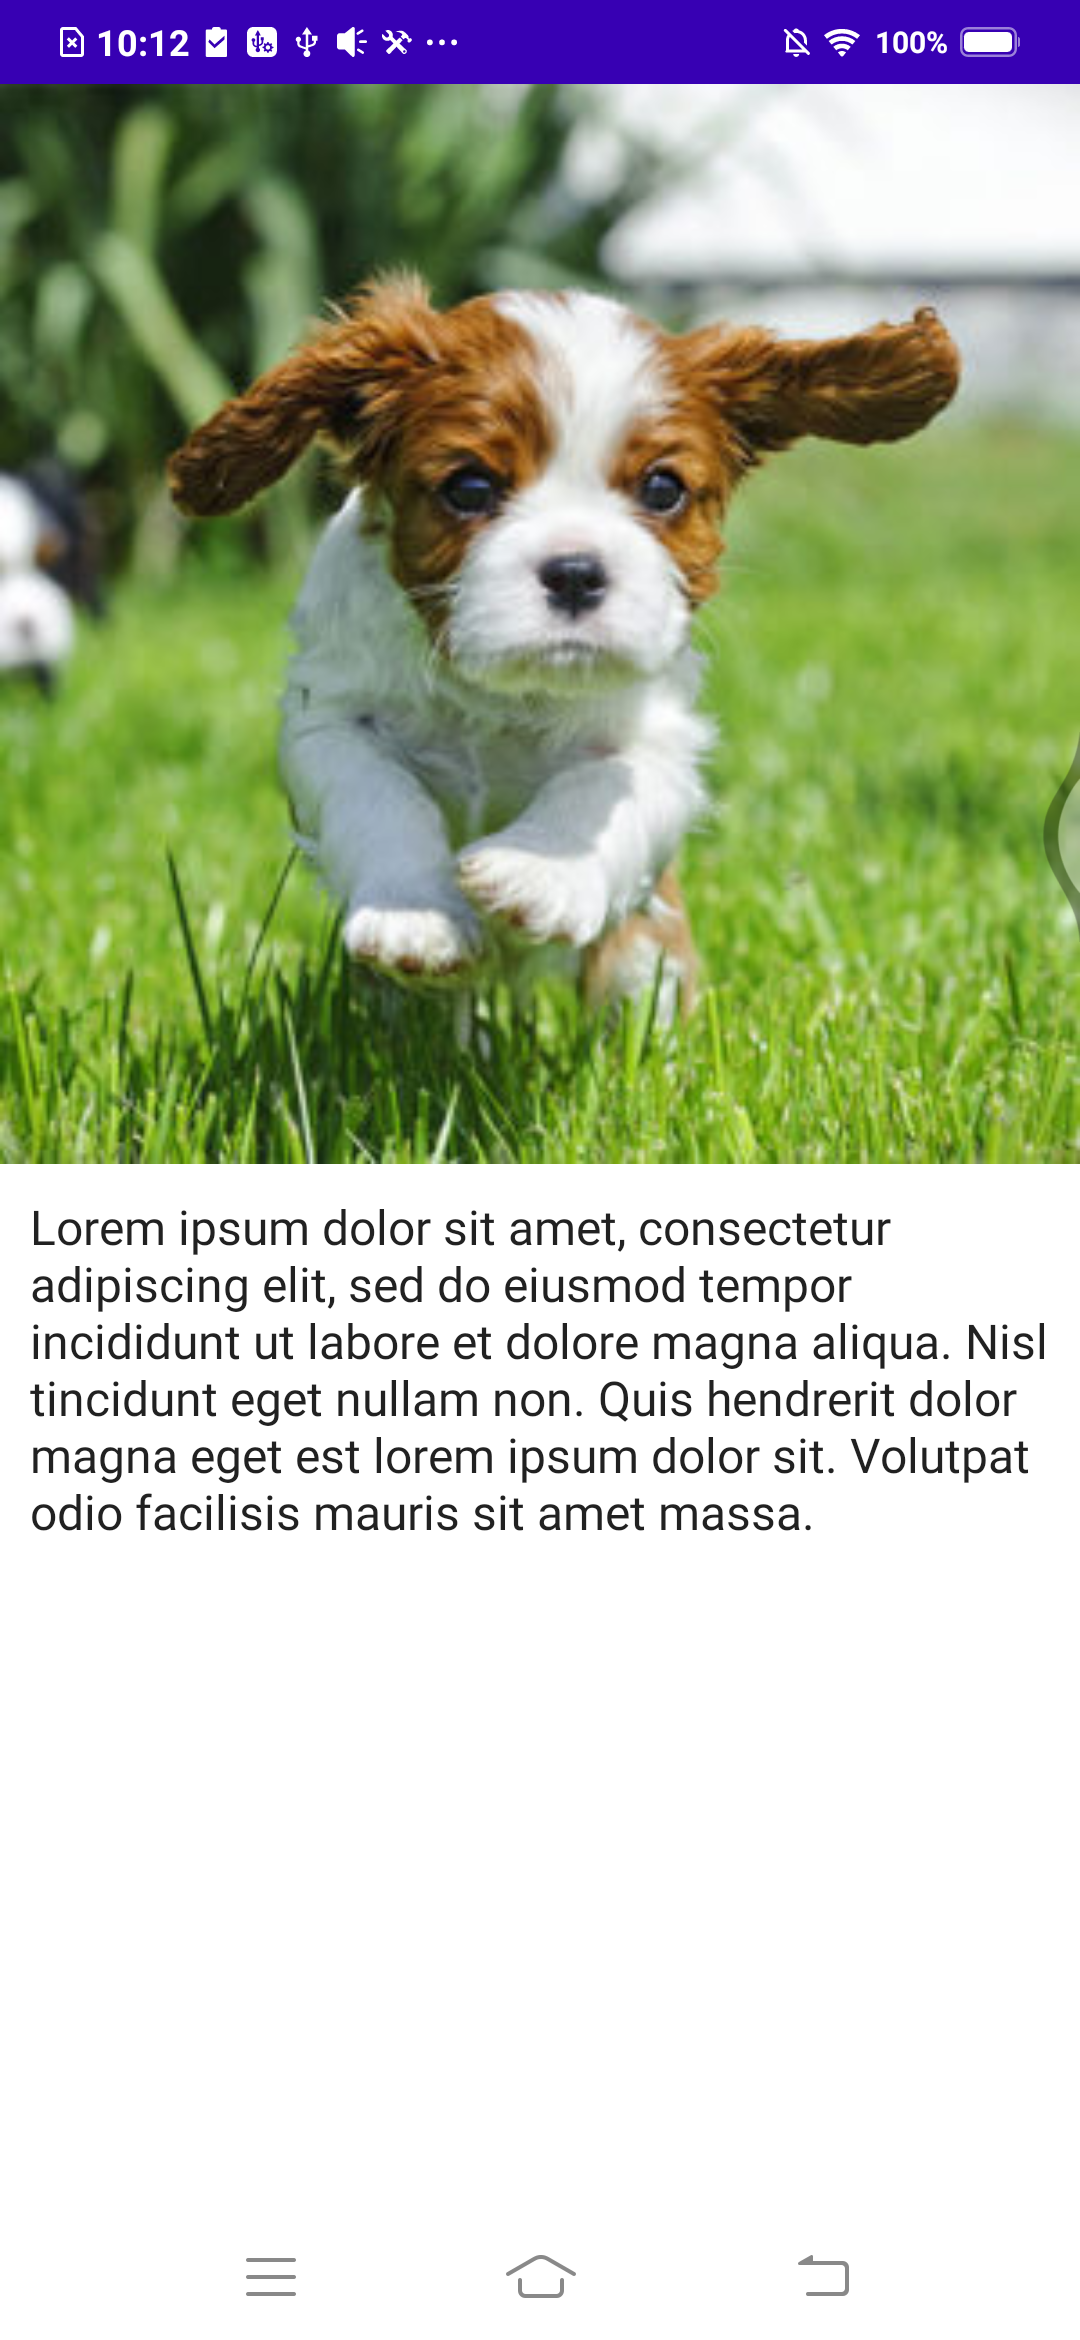
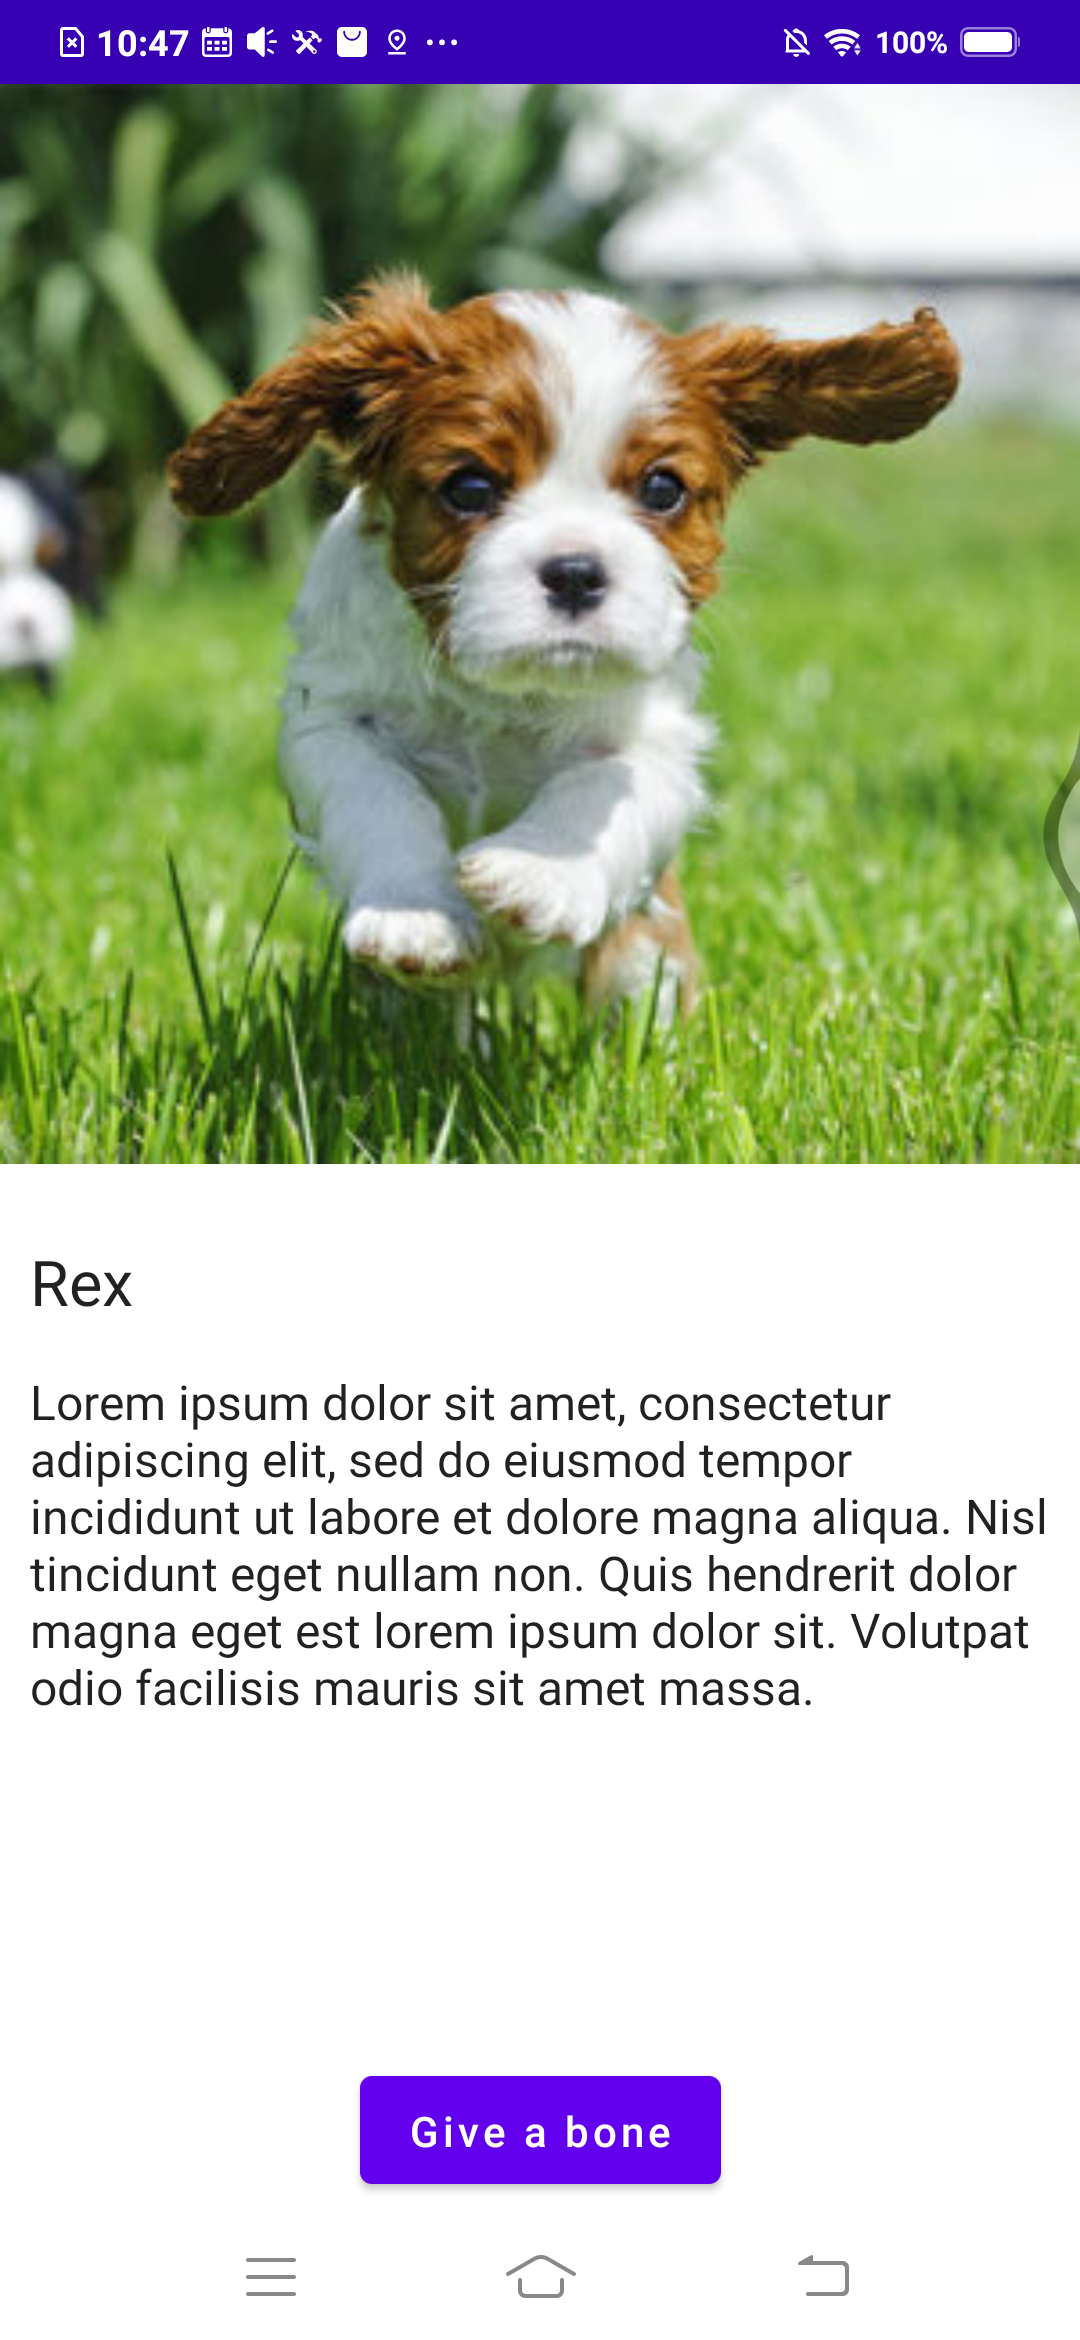
improve details screen and update screenshot

diff --git a/app/src/main/java/com/example/androiddevchallenge/MainActivity.kt b/app/src/main/java/com/example/androiddevchallenge/MainActivity.kt
@@ -20,22 +20,27 @@ import androidx.activity.compose.setContent
 import androidx.appcompat.app.AppCompatActivity
 import androidx.compose.foundation.Image
 import androidx.compose.foundation.clickable
+import androidx.compose.foundation.layout.Box
 import androidx.compose.foundation.layout.Column
 import androidx.compose.foundation.layout.Row
 import androidx.compose.foundation.layout.aspectRatio
+import androidx.compose.foundation.layout.fillMaxSize
 import androidx.compose.foundation.layout.fillMaxWidth
 import androidx.compose.foundation.layout.padding
 import androidx.compose.foundation.layout.size
 import androidx.compose.foundation.lazy.LazyColumn
+import androidx.compose.material.Button
 import androidx.compose.material.Card
 import androidx.compose.material.Scaffold
 import androidx.compose.material.Text
 import androidx.compose.runtime.Composable
+import androidx.compose.ui.Alignment
 import androidx.compose.ui.Modifier
 import androidx.compose.ui.graphics.ImageBitmap
 import androidx.compose.ui.res.imageResource
 import androidx.compose.ui.tooling.preview.Preview
 import androidx.compose.ui.unit.dp
+import androidx.compose.ui.unit.sp
 import androidx.navigation.NavController
 import androidx.navigation.NavType
 import androidx.navigation.compose.NavHost
@@ -112,13 +117,28 @@ fun PuppyRow(puppy: Puppy, navController: NavController) {
 @Composable
 fun PuppyDetail(id: Int) {
     val puppy = puppies.find { it.id == id } ?: puppies[0]
-    Column {
-        Image(
-            bitmap = ImageBitmap.imageResource(id = puppy.photo),
-            modifier = Modifier.fillMaxWidth().aspectRatio(1.0f),
-            contentDescription = null
-        )
-        Text(text = puppy.desc, modifier = Modifier.padding(10.dp))
+    Box(modifier = Modifier.fillMaxSize()) {
+        Column(modifier = Modifier.align(Alignment.TopCenter)) {
+            Image(
+                bitmap = ImageBitmap.imageResource(id = puppy.photo),
+                modifier = Modifier.fillMaxWidth().aspectRatio(1.0f),
+                contentDescription = null
+            )
+            Column(modifier = Modifier.padding(10.dp)) {
+                Text(
+                    text = puppy.name,
+                    fontSize = 21.sp,
+                    modifier = Modifier.padding(vertical = 15.dp)
+                )
+                Text(text = puppy.desc)
+            }
+        }
+        Button(
+            onClick = {},
+            modifier = Modifier.align(Alignment.BottomCenter).padding(10.dp)
+        ) {
+            Text(text = "Give a bone")
+        }
     }
 }
 
